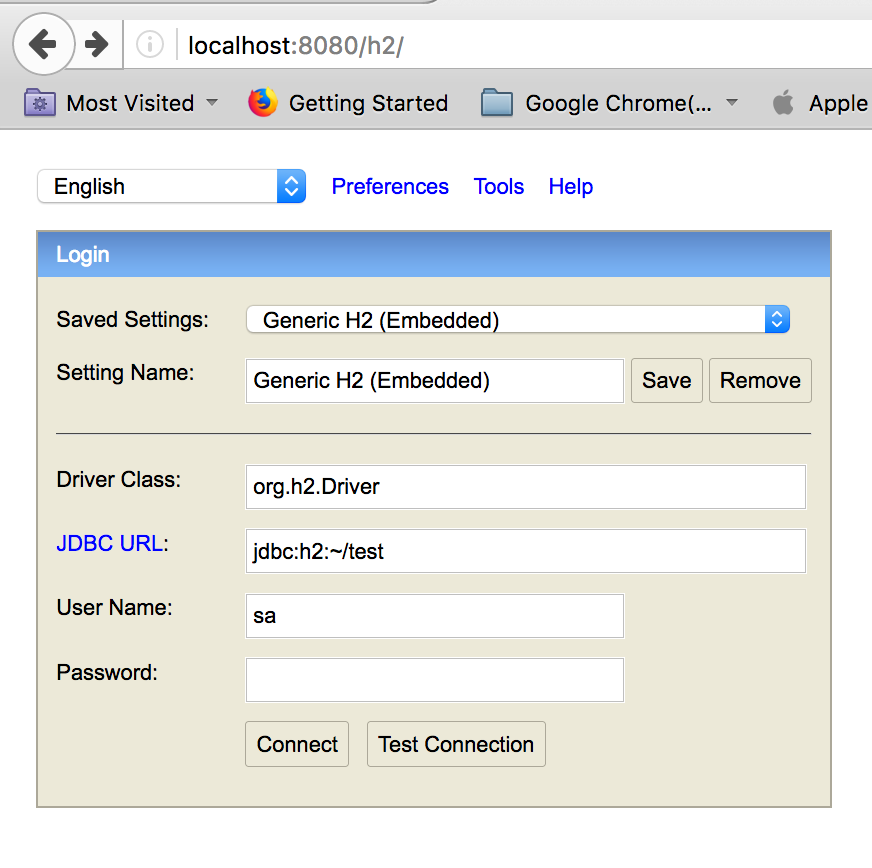
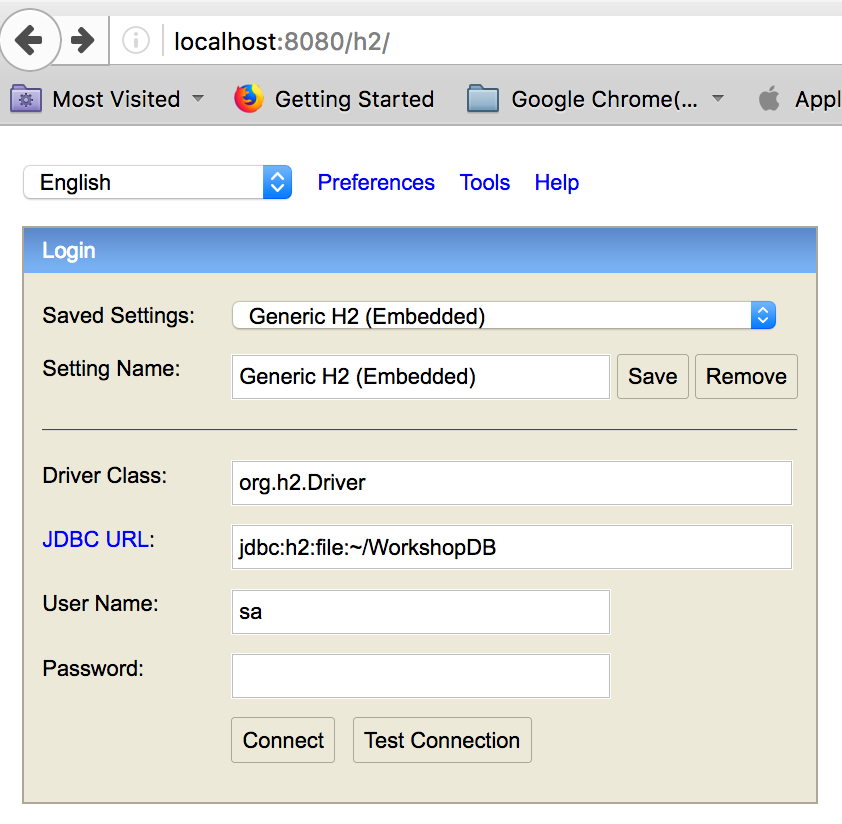
01

diff --git a/doc-module-01.md b/doc-module-01.md
@@ -29,7 +29,7 @@ mvn clean compile test
 	2. Packaging without unit testing(recommended)
 
 ```
-mvn package -Dmaven.test.skip=true
+mvn compile package -Dmaven.test.skip=true
 
 ```
 	
@@ -45,7 +45,42 @@ mvn package
 java -jar target/module-01-0.1.0.jar
 ```
 
-#### 1.3  Test your application
+#### 1.3 Change H2 password
+- Currently we are using H2 database. If you want to change this database to MySQL in local then, please see application.properties
+
+	1. Connect H2 console (http://localhost:8080/h2)
+	2. Specify JDBC URL "jdbc:h2:file:~/WorkshopDB"
+	3. User Name : sa
+	4. Password :  <none>
+
+![H2 database](./images/module-01/06.png)
+
+5. Change password to "12345678"
+
+```
+ALTER USER sa SET PASSWORD '12345678';
+```
+![H2 database](./images/module-01/07.png)
+
+
+#### 1.4 Change application.properties
+
+1. Specify password value
+
+``` 
+spring.datasource.password=12345678
+```
+2. Re-launch application
+
+```
+mvn compile package -Dmaven.test.skip=true
+
+java -jar target/module-01-0.1.0.jar
+
+```
+
+
+#### 1.5  Test your application
 Run MainControllerTest with JUnit Runner and check the console output and it's result. if you get a error messages then take a look at how to fix the problem.
 We have 2 kinds of unit test, one is mock test, the other is integration test, please check 2 files in test folder.
 
@@ -81,17 +116,6 @@ curl 'localhost:8080/workshop/images/all'
 - see user list, add/update/delete user
 
 
-### 2. Check your database
-- Currently we are using H2 database. If you want to change this database to MySQL in local then, please see application.properties
-
-##### 1. Open the following link
-After launching 
-
-http://localhost:8080/h2
-
-You can create a new user, new database in this console page
-
-![H2 database](./images/module-01/06.png)
 
 
 ### 3. Take a look at application structure
